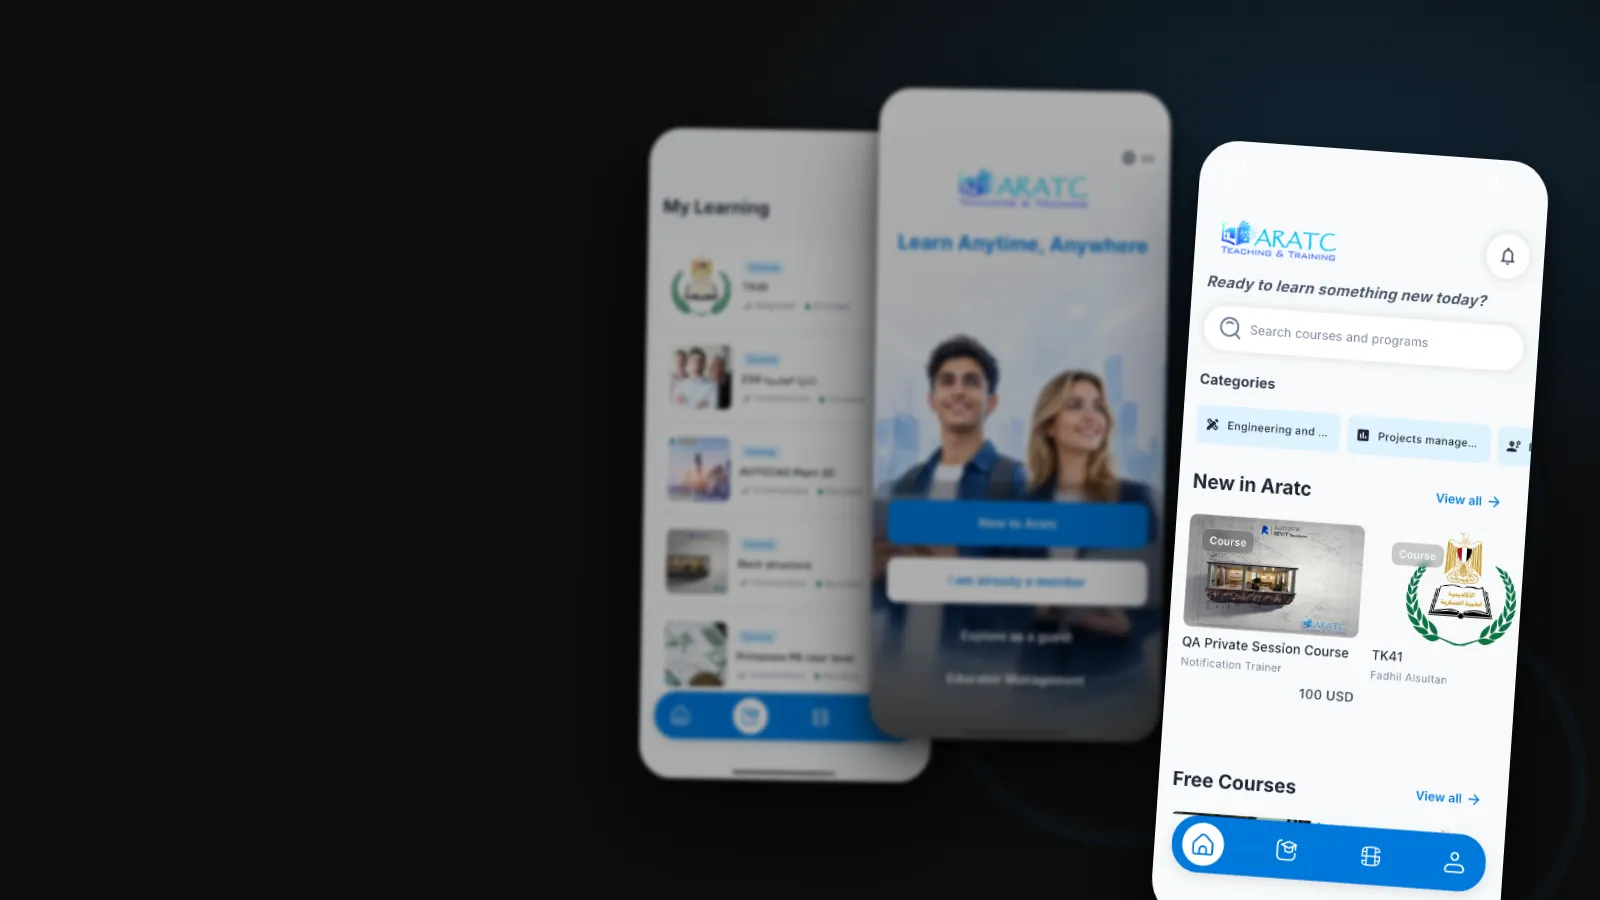
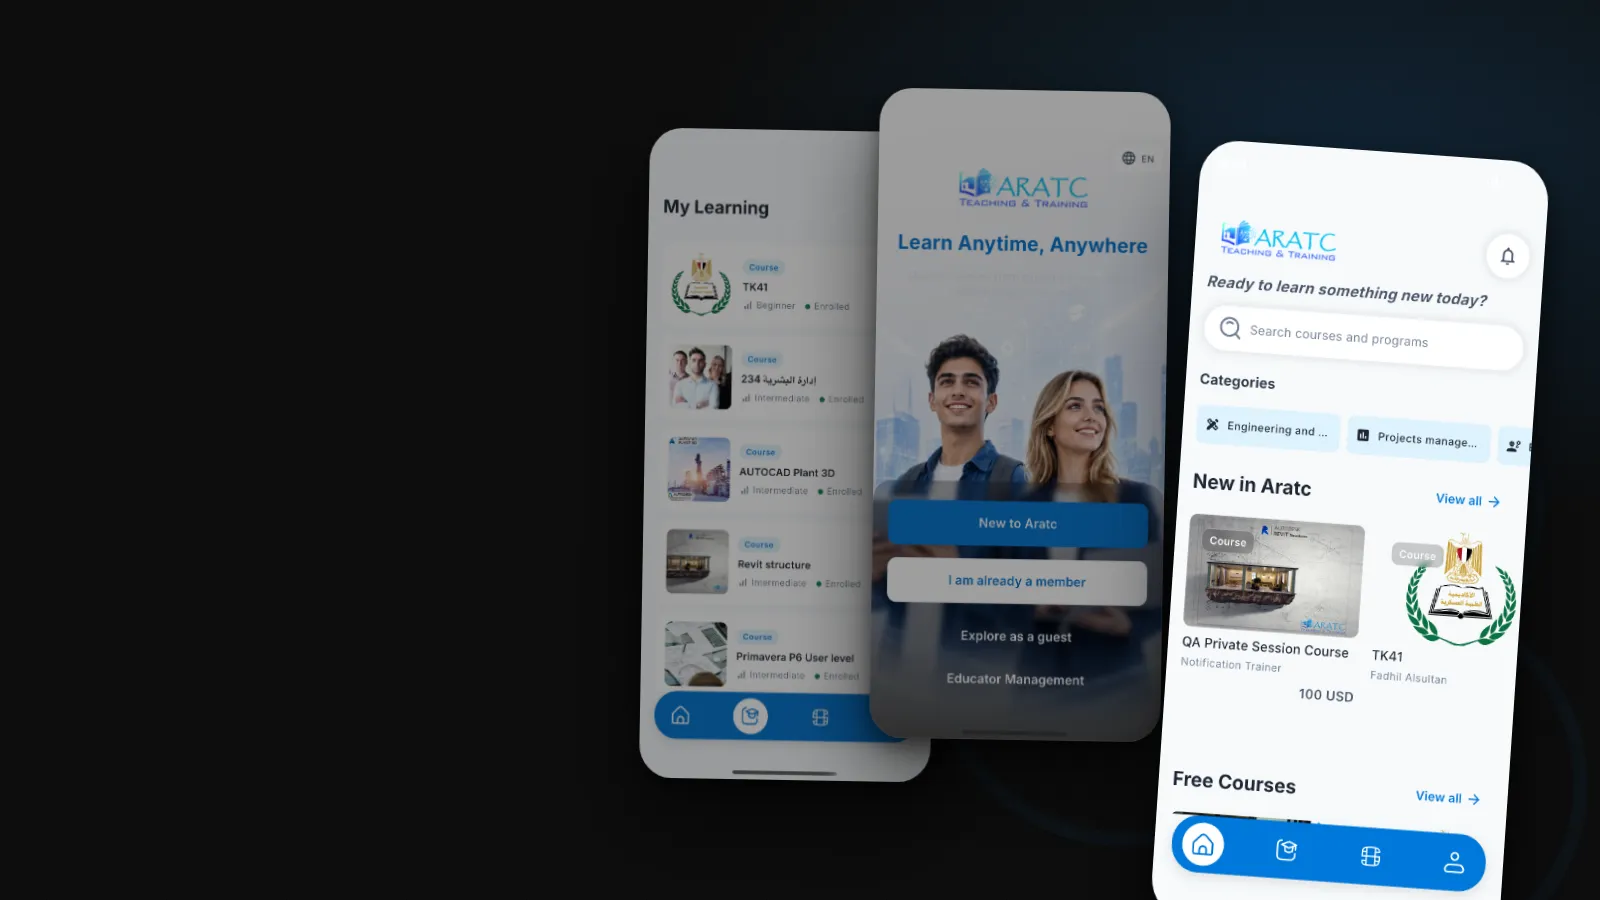
feat(dossier): per-project colour theme; crisper covers
- npm run assets now saves each project's sampled accent (meta.json); the
  project page uses it as ambient light that drifts to a new spot per
  frame, and for text selection. World colour stays on labels/buttons.
- Cover back devices: depth by dimming, not blur (blur(2px) → .6px).
- HUD labels sit on a dark pill so they read over any art.

diff --git a/tools/assets/render.ts b/tools/assets/render.ts
@@ -125,6 +125,7 @@ async function renderScreenshotProject(browser: Browser, slug: string, spec: Sho
     i++;
   }
 
+  writeMeta(outDir, accent);
   console.log(`  ✓ ${slug} (screenshots) accent=${accent} galleries=${i - 1}`);
 }
 
@@ -145,7 +146,13 @@ async function renderCloudProject(browser: Browser, slug: string, spec: DiagramY
   await sharp(buf).extract({ left: 650, top: 40, width: 920, height: 820 }).resize(1080, 1350, { fit: 'cover' }).webp({ quality: 80 }).toFile(join(outDir, 'cover-portrait.webp'));
   // thumb = the terminal window, which reads as "code" at small sizes
   await sharp(buf).extract({ left: 690, top: 100, width: 520, height: 470 }).resize(480, 600, { fit: 'cover' }).webp({ quality: 80 }).toFile(join(outDir, 'thumb.webp'));
+  writeMeta(outDir, accent);
   console.log(`  ✓ ${slug} (cloud diagram) accent=${accent}`);
+}
+
+/** The project's accent, for the site's per-project colour theme (src/lib/assets.ts). */
+function writeMeta(outDir: string, accent: string) {
+  writeFileSync(join(outDir, 'meta.json'), JSON.stringify({ accent }, null, 2) + '\n');
 }
 
 async function main() {

diff --git a/src/scripts/dossier-engine.ts b/src/scripts/dossier-engine.ts
@@ -8,6 +8,7 @@ const LOCK_MS = 950; // one transition; input is ignored meanwhile
 const QUIET_MS = 200; // a trackpad flick's inertia must stop before the next move
 const WHEEL_STEP = 40; // accumulated delta that counts as "go"
 const SWIPE = 56; // px
+const LIGHT: [number, number][] = [[82, 18], [18, 30], [70, 80], [30, 70], [85, 55]];
 
 export function initEngine(root: HTMLElement) {
   const html = document.documentElement;
@@ -51,6 +52,10 @@ export function initEngine(root: HTMLElement) {
       else t.removeAttribute('aria-current');
     });
     count.textContent = String(idx + 1).padStart(2, '0');
+    // the ambient light drifts to a new spot per frame, like a camera moving
+    const spot = LIGHT[idx % LIGHT.length];
+    root.style.setProperty('--ax', `${spot[0]}%`);
+    root.style.setProperty('--ay', `${spot[1]}%`);
     const last = idx === frames.length - 1;
     next.hidden = last;
     if (!last) nextLabel.textContent = `${json.next}: ${json.labels[idx + 1]}`;

diff --git a/src/lib/assets.ts b/src/lib/assets.ts
@@ -1,4 +1,4 @@
-import { existsSync } from 'node:fs';
+import { existsSync, readFileSync } from 'node:fs';
 import { join } from 'node:path';
 import { url } from '../i18n';
 
@@ -59,4 +59,15 @@ export function galleryCount(slug: string): number {
 /** Base-relative path of the project's captioned link-preview image, if generated. */
 export function ogPath(slug: string): string | undefined {
   return existsSync(join(PUB, slug, 'og.png')) ? `projects/${slug}/og.png` : undefined;
+}
+
+/** The project's own accent (sampled from its hero screen by `npm run assets`),
+ *  for its page's subtle colour theme; undefined when there's no generated art. */
+export function projectAccent(slug: string): string | undefined {
+  try {
+    const m = JSON.parse(readFileSync(join(PUB, slug, 'meta.json'), 'utf8')) as { accent?: string };
+    return /^#[0-9a-f]{3,8}$/i.test(m.accent ?? '') ? m.accent : undefined;
+  } catch {
+    return undefined;
+  }
 }

diff --git a/src/styles/engine.css b/src/styles/engine.css
@@ -4,6 +4,10 @@
    depth transition. A frame taller than the screen scrolls inside itself
    first. The HUD (rail, counter, next cue) floats over everything. */
 
+/* animatable ambient-light position (the dossier's .ambient drifts per frame) */
+@property --ax { syntax: '<percentage>'; inherits: true; initial-value: 82%; }
+@property --ay { syntax: '<percentage>'; inherits: true; initial-value: 18%; }
+
 html.is-engine,
 html.is-engine body { block-size: 100%; overflow: hidden; overscroll-behavior: none; }
 
@@ -121,6 +125,10 @@ html.is-engine .hud { display: block; }
   transition: inline-size var(--dur) var(--ease-strong), background var(--dur) var(--ease);
 }
 .hud__label {
+  padding: 3px 9px;
+  border-radius: 999px;
+  background: rgba(8, 8, 8, 0.62);
+  backdrop-filter: blur(6px);
   font-family: var(--font-mono);
   font-size: 0.7rem;
   letter-spacing: 0.14em;

diff --git a/tools/assets/templates.ts b/tools/assets/templates.ts
@@ -97,7 +97,7 @@ export function coverTemplate(
         s,
         'back',
         `width:300px;height:650px;top:${90 + i * 40}px;${rtl ? 'left' : 'right'}:${430 + i * 230}px;` +
-          `filter:blur(2px) brightness(.68);transform:rotate(${rtl ? -1 : 1}deg) rotateY(${rtl ? 14 : -14}deg);z-index:${1 - i};`
+          `filter:blur(.6px) brightness(.62) saturate(.9);transform:rotate(${rtl ? -1 : 1}deg) rotateY(${rtl ? 14 : -14}deg);z-index:${1 - i};`
       )
     )
     .join('');
